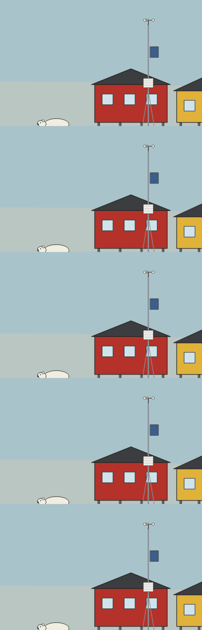
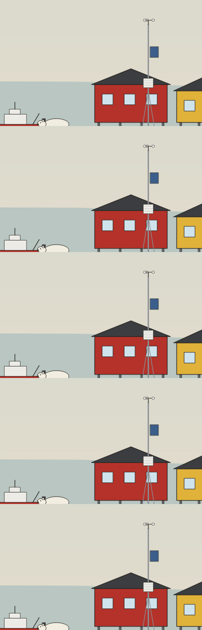
Weichere Übergänge zwischen Ozean, Graben, Arktis und Wüste; Polarstern wieder sichtbar (Version 20261015y)
Claude-Session: https://claude.ai/code/session_011L4SbZmA1nCzynYP7NVS7W

diff --git a/werk101/index.html b/werk101/index.html
@@ -5,7 +5,7 @@
 <meta name="viewport" content="width=device-width, initial-scale=1, viewport-fit=cover">
 <meta name="description" content="RoboWorld 101: eine animierte Welt voller echter Roboter. Erstes Gebäude: Werk 101.">
 <title>RoboWorld 101</title>
-<link rel="stylesheet" href="fonts/fonts.css?v=20261015x">
+<link rel="stylesheet" href="fonts/fonts.css?v=20261015y">
 <style>
 /* Layout: Vollbild-Leinwand mit dem Gebäudequerschnitt, schwebende Werkzeugleiste oben, Raum-Panel rechts (mobil: unten). Bewusst nur ein Look, weil die Zeichnung selbst die Farben vorgibt. */
 :root {
@@ -195,79 +195,79 @@ body { background: #a9c3cb; color: var(--ink); font-family: var(--font-body); ov
   </div>
 </aside>
 
-<script src="kit.js?v=20261015x"></script>
-<script src="rooms/kantine.js?v=20261015x"></script>
-<script src="rooms/fertigung.js?v=20261015x"></script>
-<script src="rooms/lager.js?v=20261015x"></script>
-<script src="rooms/kranken.js?v=20261015x"></script>
-<script src="rooms/wohnen.js?v=20261015x"></script>
-<script src="rooms/sport.js?v=20261015x"></script>
-<script src="rooms/museum.js?v=20261015x"></script>
-<script src="rooms/drohnen.js?v=20261015x"></script>
-<script src="rooms/bergwerk.js?v=20261015x"></script>
-<script src="rooms/satellit.js?v=20261015x"></script>
-<script src="rooms/labor.js?v=20261015x"></script>
-<script src="rooms/schule.js?v=20261015x"></script>
-<script src="rooms/pruef.js?v=20261015x"></script>
-<script src="rooms/garage.js?v=20261015x"></script>
-<script src="rooms/eingang.js?v=20261015x"></script>
-<script src="rooms/stall.js?v=20261015x"></script>
-<script src="rooms/kat.js?v=20261015x"></script>
-<script src="rooms/tiefsee.js?v=20261015x"></script>
-<script src="rooms/mars.js?v=20261015x"></script>
-<script src="rooms/apotheke.js?v=20261015x"></script>
-<script src="rooms/supermarkt.js?v=20261015x"></script>
-<script src="rooms/film.js?v=20261015x"></script>
-<script src="rooms/recycling.js?v=20261015x"></script>
-<script src="rooms/hafen.js?v=20261015x"></script>
-<script src="rooms/lernen.js?v=20261015x"></script>
-<script src="rooms/buecher.js?v=20261015x"></script>
-<script src="rooms/baustelle.js?v=20261015x"></script>
-<script src="rooms/aussen.js?v=20261015x"></script>
-<script src="rooms/feld.js?v=20261015x"></script>
-<script src="rooms/energie.js?v=20261015x"></script>
-<script src="rooms/solar.js?v=20261015x"></script>
-<script src="rooms/flughafen.js?v=20261015x"></script>
-<script src="rooms/tief.js?v=20261015x"></script>
-<script src="rooms/ubahn.js?v=20261015x"></script>
-<script src="rooms/ubahn2.js?v=20261015x"></script>
-<script src="rooms/vortrieb.js?v=20261015x"></script>
-<script src="rooms/spielhalle.js?v=20261015x"></script>
-<script src="rooms/denkspiele.js?v=20261015x"></script>
-<script src="rooms/schulweg.js?v=20261015x"></script>
-<script src="rooms/campus.js?v=20261015x"></script>
-<script src="rooms/dunkel.js?v=20261015x"></script>
-<script src="rooms/montage.js?v=20261015x"></script>
-<script src="rooms/rechenzentrum.js?v=20261015x"></script>
-<script src="rooms/haus104.js?v=20261015x"></script>
-<script src="rooms/bahn.js?v=20261015x"></script>
-<script src="rooms/paket.js?v=20261015x"></script>
-<script src="rooms/farm.js?v=20261015x"></script>
-<script src="rooms/rechts.js?v=20261015x"></script>
-<script src="rooms/extras.js?v=20261015x"></script>
-<script src="rooms/seehafen.js?v=20261015x"></script>
-<script src="rooms/meer.js?v=20261015x"></script>
-<script src="rooms/graben.js?v=20261015x"></script>
-<script src="rooms/arktis.js?v=20261015x"></script>
-<script src="rooms/mine.js?v=20261015x"></script>
-<script src="rooms/stausee.js?v=20261015x"></script>
-<script src="rooms/gebirge.js?v=20261015x"></script>
-<script src="rooms/wueste.js?v=20261015x"></script>
-<script src="rooms/wasser.js?v=20261015x"></script>
-<script src="rooms/uebergang.js?v=20261015x"></script>
-<script src="kinder.js?v=20261015x"></script>
-<script src="runners.js?v=20261015x"></script>
-<script src="himmel.js?v=20261015x"></script>
-<script src="welt.js?v=20261015x"></script>
-<script src="avatar.js?v=20261015x"></script>
-<script src="wander.js?v=20261015x"></script>
-<script src="kreislauf.js?v=20261015x"></script>
-<script src="stoerung.js?v=20261015x"></script>
-<script src="meldungen.js?v=20261015x"></script>
-<script src="engine.js?v=20261015x"></script>
-<script src="netz.js?v=20261015x"></script>
-<script src="game.js?v=20261015x"></script>
-<script src="tour.js?v=20261015x"></script>
+<script src="kit.js?v=20261015y"></script>
+<script src="rooms/kantine.js?v=20261015y"></script>
+<script src="rooms/fertigung.js?v=20261015y"></script>
+<script src="rooms/lager.js?v=20261015y"></script>
+<script src="rooms/kranken.js?v=20261015y"></script>
+<script src="rooms/wohnen.js?v=20261015y"></script>
+<script src="rooms/sport.js?v=20261015y"></script>
+<script src="rooms/museum.js?v=20261015y"></script>
+<script src="rooms/drohnen.js?v=20261015y"></script>
+<script src="rooms/bergwerk.js?v=20261015y"></script>
+<script src="rooms/satellit.js?v=20261015y"></script>
+<script src="rooms/labor.js?v=20261015y"></script>
+<script src="rooms/schule.js?v=20261015y"></script>
+<script src="rooms/pruef.js?v=20261015y"></script>
+<script src="rooms/garage.js?v=20261015y"></script>
+<script src="rooms/eingang.js?v=20261015y"></script>
+<script src="rooms/stall.js?v=20261015y"></script>
+<script src="rooms/kat.js?v=20261015y"></script>
+<script src="rooms/tiefsee.js?v=20261015y"></script>
+<script src="rooms/mars.js?v=20261015y"></script>
+<script src="rooms/apotheke.js?v=20261015y"></script>
+<script src="rooms/supermarkt.js?v=20261015y"></script>
+<script src="rooms/film.js?v=20261015y"></script>
+<script src="rooms/recycling.js?v=20261015y"></script>
+<script src="rooms/hafen.js?v=20261015y"></script>
+<script src="rooms/lernen.js?v=20261015y"></script>
+<script src="rooms/buecher.js?v=20261015y"></script>
+<script src="rooms/baustelle.js?v=20261015y"></script>
+<script src="rooms/aussen.js?v=20261015y"></script>
+<script src="rooms/feld.js?v=20261015y"></script>
+<script src="rooms/energie.js?v=20261015y"></script>
+<script src="rooms/solar.js?v=20261015y"></script>
+<script src="rooms/flughafen.js?v=20261015y"></script>
+<script src="rooms/tief.js?v=20261015y"></script>
+<script src="rooms/ubahn.js?v=20261015y"></script>
+<script src="rooms/ubahn2.js?v=20261015y"></script>
+<script src="rooms/vortrieb.js?v=20261015y"></script>
+<script src="rooms/spielhalle.js?v=20261015y"></script>
+<script src="rooms/denkspiele.js?v=20261015y"></script>
+<script src="rooms/schulweg.js?v=20261015y"></script>
+<script src="rooms/campus.js?v=20261015y"></script>
+<script src="rooms/dunkel.js?v=20261015y"></script>
+<script src="rooms/montage.js?v=20261015y"></script>
+<script src="rooms/rechenzentrum.js?v=20261015y"></script>
+<script src="rooms/haus104.js?v=20261015y"></script>
+<script src="rooms/bahn.js?v=20261015y"></script>
+<script src="rooms/paket.js?v=20261015y"></script>
+<script src="rooms/farm.js?v=20261015y"></script>
+<script src="rooms/rechts.js?v=20261015y"></script>
+<script src="rooms/extras.js?v=20261015y"></script>
+<script src="rooms/seehafen.js?v=20261015y"></script>
+<script src="rooms/meer.js?v=20261015y"></script>
+<script src="rooms/graben.js?v=20261015y"></script>
+<script src="rooms/arktis.js?v=20261015y"></script>
+<script src="rooms/mine.js?v=20261015y"></script>
+<script src="rooms/stausee.js?v=20261015y"></script>
+<script src="rooms/gebirge.js?v=20261015y"></script>
+<script src="rooms/wueste.js?v=20261015y"></script>
+<script src="rooms/wasser.js?v=20261015y"></script>
+<script src="rooms/uebergang.js?v=20261015y"></script>
+<script src="kinder.js?v=20261015y"></script>
+<script src="runners.js?v=20261015y"></script>
+<script src="himmel.js?v=20261015y"></script>
+<script src="welt.js?v=20261015y"></script>
+<script src="avatar.js?v=20261015y"></script>
+<script src="wander.js?v=20261015y"></script>
+<script src="kreislauf.js?v=20261015y"></script>
+<script src="stoerung.js?v=20261015y"></script>
+<script src="meldungen.js?v=20261015y"></script>
+<script src="engine.js?v=20261015y"></script>
+<script src="netz.js?v=20261015y"></script>
+<script src="game.js?v=20261015y"></script>
+<script src="tour.js?v=20261015y"></script>
 
 </body>
 </html>

diff --git a/werk101/rooms/arktis.js b/werk101/rooms/arktis.js
@@ -52,17 +52,21 @@ function akBild(g) {
   ctx.fillStyle = himmelFarben()[2]; ctx.fillRect(AK_X0 - WALL, GROUND - 8, AK_LAND - AK_X0 + WALL, SH_WY - GROUND + 9);
   // Polarstern weit hinten im Eis (klein, weil weit weg)
   withAlpha('polarstern', () => {
-    const x = AK_X0 + 200, y = SH_WY - 14;
+    const x = rx(30) + 640, y = AK_EIS_O - 4;
     ctx.beginPath(); ctx.moveTo(x, y - 26); ctx.lineTo(x + 230, y - 26); ctx.lineTo(x + 220, y); ctx.lineTo(x + 12, y); ctx.closePath(); paint('#b4322a', INK, 1.5);
     box(x + 30, y - 58, 70, 32, '#ecebe6', 0, 1.2); box(x + 46, y - 74, 34, 16, '#ecebe6', 0, 1.2); line(x + 63, y - 74, x + 63, y - 96, INK, 2);
     box(x + 150, y - 44, 10, 18, '#3b3d40', 0, 1); line(x + 120, y - 26, x + 140, y - 60, INK, 2);
   });
   // Wasser unter dem Eis
-  ctx.fillStyle = ab ? '#102236' : '#2f5670'; ctx.fillRect(AK_X0 - WALL, SH_WY, AK_X1 - AK_X0 + WALL, SH_BOT - SH_WY);
-  ctx.fillStyle = '#5b4f45'; ctx.fillRect(AK_X0 - WALL, SH_BOT - 20, AK_X1 - AK_X0 + WALL, 20);
+  ctx.fillStyle = ab ? '#102236' : '#2f5670'; ctx.fillRect(AK_X0 - WALL, SH_WY, AK_LAND - AK_X0 + WALL, SH_BOT - SH_WY);
+  ctx.fillStyle = '#5b4f45'; ctx.fillRect(AK_X0 - WALL, SH_BOT - 20, AK_LAND - AK_X0 + WALL, 20);
   // Land: Fels mit Dauerfrost, Schnee obenauf
-  ctx.beginPath(); ctx.moveTo(AK_LAND - 120, SH_BOT); ctx.lineTo(AK_LAND - 40, SH_WY + 20); ctx.lineTo(AK_LAND, GROUND); ctx.lineTo(AK_X1, GROUND); ctx.lineTo(AK_X1, SH_BOT); ctx.closePath(); paint('#4a4642', INK, 2);
-  ctx.fillStyle = '#f4f6f6'; ctx.fillRect(AK_LAND, GROUND - 8, AK_X1 - AK_LAND, 10);
+  // Ufer in der Farbe des Erdreichs; dahinter zeigt sich das normale Erdreich mit seinen Schichten. Schnee läuft am Rand aus
+  const erde = ctx.createLinearGradient(0, GROUND, 0, BOTTOM + 400); erde.addColorStop(0, '#7a6450'); erde.addColorStop(1, '#4d3e31');
+  ctx.beginPath(); ctx.moveTo(AK_LAND - 140, SH_BOT); ctx.lineTo(AK_LAND - 40, SH_WY + 20); ctx.lineTo(AK_LAND, GROUND); ctx.lineTo(AK_LAND + 60, GROUND); ctx.lineTo(AK_LAND + 60, SH_BOT); ctx.closePath();
+  ctx.fillStyle = erde; ctx.fill(); ctx.strokeStyle = INK; ctx.lineWidth = 2; ctx.beginPath(); ctx.moveTo(AK_LAND - 140, SH_BOT); ctx.lineTo(AK_LAND - 40, SH_WY + 20); ctx.lineTo(AK_LAND, GROUND); ctx.stroke();
+  const schnee = ctx.createLinearGradient(AK_X1 - 100, 0, AK_X1 + 400, 0); schnee.addColorStop(0, 'rgba(244,246,246,1)'); schnee.addColorStop(1, 'rgba(244,246,246,0)');
+  ctx.fillStyle = '#f4f6f6'; ctx.fillRect(AK_LAND, GROUND - 8, AK_X1 - 100 - AK_LAND, 14); ctx.fillStyle = schnee; ctx.fillRect(AK_X1 - 100, GROUND - 8, 500, 14);
   // Eisschollen: offene Rinne links, große Scholle mit Camp
   const eis = ab ? '#c9d4e2' : '#eef4f8', eisU = ab ? '#8fa6bf' : '#b9d0de';
   // Eisberg: vom Gletscher abgebrochen, etwa neun Zehntel liegen unter Wasser und laufen nach unten spitz zu
@@ -158,7 +162,7 @@ akReg('arktis1', { id: 'polarstern', name: 'Polarstern', bereich: 'Forschung', a
   fakt: 'Die Polarstern ist der Forschungs-Eisbrecher des Alfred-Wegener-Instituts aus Bremerhaven, 118 Meter lang. Für die MOSAiC-Expedition ließ sie sich im Herbst 2019 in einer Eisscholle einfrieren und driftete fast ein Jahr mit dem Eis durch das Nordpolarmeer. Um das Schiff herum entstand ein Eiscamp mit Messstationen.',
   echt: 'Echt. Hier klein, weil sie weit hinten im Eis liegt.', note: 'Liegt weit draußen eingefroren im Eis.',
   quelle: 'https://en.wikipedia.org/wiki/RV_Polarstern',
-  box: () => [AK_X0 + 200, SH_WY - 110, 240, 100] });
+  box: () => [rx(30) + 640, AK_EIS_O - 100, 240, 100] });
 akReg('arktis1', { id: 'robbe', name: 'Ringelrobbe', bereich: 'Tier', aera: 'Arktis', typ: 'Robbe auf dem Eis', color: '#7d7a72',
   fakt: 'Ringelrobben leben im arktischen Meereis. Sie halten sich mit ihren Krallen Atemlöcher im Eis offen und ruhen auf den Schollen. Sie sind die wichtigste Beute der Eisbären.',
   echt: 'Echt.', note: 'Ruht auf der kleinen Scholle.',

diff --git a/werk101/rooms/wueste.js b/werk101/rooms/wueste.js
@@ -85,13 +85,13 @@ function wuBild(g) {
   const sand = nacht ? '#4e4a5e' : ab ? '#9a7462' : '#dcbf86', fern = nacht ? '#2e3150' : ab ? '#6e5468' : '#c99a6a';
   ctx.save(); ctx.beginPath(); ctx.rect(WU_X0, WU_G - 1400, WU_X1 - WU_X0, 1440); ctx.clip();
   // Tafelberge in der Ferne
-  ctx.fillStyle = fern; ctx.beginPath(); ctx.moveTo(WU_X0, WU_G - 120);
-  for (const [dx, dy] of [[300, -140], [380, -330], [760, -330], [830, -170], [1300, -150], [1360, -260], [1600, -260], [1660, -150], [2100, -180], [2200, -380], [2624, -420]]) ctx.lineTo(WU_X0 + dx, WU_G + dy);
+  ctx.fillStyle = fern; ctx.beginPath(); ctx.moveTo(WU_X0, WU_G - 10);
+  for (const [dx, dy] of [[300, -140], [380, -330], [760, -330], [830, -170], [1300, -150], [1360, -260], [1600, -260], [1660, -150], [2100, -180], [2200, -380], [2420, -330], [2624, -40]]) ctx.lineTo(WU_X0 + dx, WU_G + dy);
   ctx.lineTo(WU_X1, WU_G); ctx.lineTo(WU_X0, WU_G); ctx.closePath(); ctx.fill();
   // Dünen und Boden
-  ctx.fillStyle = sand; ctx.beginPath(); ctx.moveTo(WU_X0, WU_G + 40);
-  for (let x = 0; x <= 2624; x += 40) ctx.lineTo(WU_X0 + x, WU_G - 40 - 26 * Math.sin(x / 210) - 12 * Math.sin(x / 67));
-  ctx.lineTo(WU_X1, WU_G + 40); ctx.closePath(); ctx.fill();
+  ctx.fillStyle = sand; ctx.beginPath(); ctx.moveTo(WU_X0, WU_G);
+  for (let x = 0; x <= 2624; x += 40) { const r = Math.min(1, x / 300, (2624 - x) / 300); ctx.lineTo(WU_X0 + x, WU_G - r * (40 + 26 * Math.sin(x / 210) + 12 * Math.sin(x / 67))); }
+  ctx.lineTo(WU_X1, WU_G); ctx.closePath(); ctx.fill();
   ctx.fillStyle = nacht ? '#5a566c' : ab ? '#a8806a' : '#e6cc98'; ctx.fillRect(WU_X0, WU_G - 18, WU_X1 - WU_X0, 18);
   // Fahrspur
   ctx.strokeStyle = 'rgba(120,90,60,0.35)'; ctx.lineWidth = 3; ctx.setLineDash([22, 14]);
@@ -149,6 +149,12 @@ function wuBild(g) {
     }
   }
   ctx.restore();
+  // weicher Übergang: Sandboden läuft links ins Gras und rechts ins Gebirge aus
+  const bodenFarbe = nacht ? '90,86,108' : ab ? '168,128,106' : '230,204,152';
+  for (const [x0, x1] of [[WU_X0, WU_X0 - 360], [WU_X1, WU_X1 + 360]]) {
+    const gr = ctx.createLinearGradient(x0, 0, x1, 0); gr.addColorStop(0, `rgba(${bodenFarbe},1)`); gr.addColorStop(1, `rgba(${bodenFarbe},0)`);
+    ctx.fillStyle = gr; ctx.fillRect(Math.min(x0, x1), WU_G - 18, 360, 24);
+  }
 }
 
 registerRunner({

diff --git a/werk101/rooms/graben.js b/werk101/rooms/graben.js
@@ -96,7 +96,13 @@ function grBild(g) {
   // Wasser oben, nach unten dunkler
   for (let d = 0; d < 6000; d += 500) { ctx.fillStyle = grFarbe(d, ab); ctx.fillRect(GR_X0, grTiefe(d), GR_X1 - GR_X0, grTiefe(d + 500) - grTiefe(d) + 1); }
   // Gestein um den Graben, dann das Wasser im Graben
-  ctx.fillStyle = '#3d3630'; ctx.fillRect(GR_X0, SH_BOT - 20, GR_X1 - GR_X0, GR_BOT - SH_BOT + 64);
+  // weiche Übergänge zum Ozean links und zur Arktis rechts
+  for (const [x0, x1, farbe] of [[GR_X0, GR_X0 + 320, ab ? '21,47,72' : '65,114,145'], [GR_X1, GR_X1 - 320, ab ? '16,34,54' : '47,86,112']]) {
+    const gr = ctx.createLinearGradient(x0, 0, x1, 0); gr.addColorStop(0, `rgba(${farbe},1)`); gr.addColorStop(1, `rgba(${farbe},0)`);
+    ctx.fillStyle = gr; ctx.fillRect(Math.min(x0, x1), SH_WY, 320, SH_BOT - SH_WY);
+  }
+  // Meeresboden als Band wie beim Ozean; um den Graben liegt das normale Erdreich
+  ctx.fillStyle = '#5b4f45'; ctx.fillRect(GR_X0 - WALL, SH_BOT - 20, GR_X1 - GR_X0 + 2 * WALL, 20);
   ctx.beginPath(); GR_WAND.forEach(([t, y], i) => (i ? ctx.lineTo(grWandX(-1, t), y) : ctx.moveTo(grWandX(-1, t), y)));
   for (let i = GR_WAND.length - 1; i >= 0; i--) ctx.lineTo(grWandX(1, GR_WAND[i][0]), GR_WAND[i][1]);
   ctx.closePath(); ctx.fillStyle = ab ? '#040810' : '#081018'; ctx.fill();

diff --git a/werk101/STIL.md b/werk101/STIL.md
@@ -247,3 +247,8 @@ registerRoom({
   - Arktis: die kleine Scholle ist jetzt ein Eisberg (Karte `eisberg`), unter Wasser spitz zulaufend und etwa neunmal so groß wie der sichtbare Teil; Robbe liegt auf dem Meereis. Lücke zwischen Graben und Arktis mit Wasser gefüllt.
   - `meldungen.js`: zentrale Liste `MELDUNGEN` für den Ticker (Runde `WELT.runde % 6`, Zeitpunkt `g`, optional `wenn()`, Ort zum Hinfahren). Acht Meldungen: DARPA 2004/2005, Raketenstart, Lander, Nereus, Ballonstart, Polarlicht (nachts), Raumstation (abends). Neue Meldung = eine Zeile in der Liste.
   - stoerung.js ruft `ticker()` direkt auf; `WELT.emit('ticker', …)` reicht nur ein Argument weiter, dann fehlt der Ort zum Hinfahren.
+- Weichere Übergänge (15. Oktober 2026, Version 20261015y):
+  - Marianengraben: kein Felsblock mehr um den Graben, dort zeigt sich das normale Erdreich mit Schichten; Wasser geht links und rechts über 320 Einheiten in die Farbe von Ozean und Arktis über; Meeresboden-Band durchgehend.
+  - Arktis: Wasser endet am Ufer, darunter normales Erdreich; Schnee läuft am rechten Rand aus. Polarstern steht jetzt sichtbar hinter der Camp-Scholle (rechts vom Eiscamp).
+  - Wüste: Tafelberge und Dünen laufen an beiden Rändern flach aus, Sandboden blendet über 360 Einheiten ins Nachbarfeld.
+  - Muster für Übergänge: Rand-Gradient in der Farbe des Nachbarn statt harter Kante; eigene Erdflächen vermeiden, wo engine.js schon Erde zeichnet.
